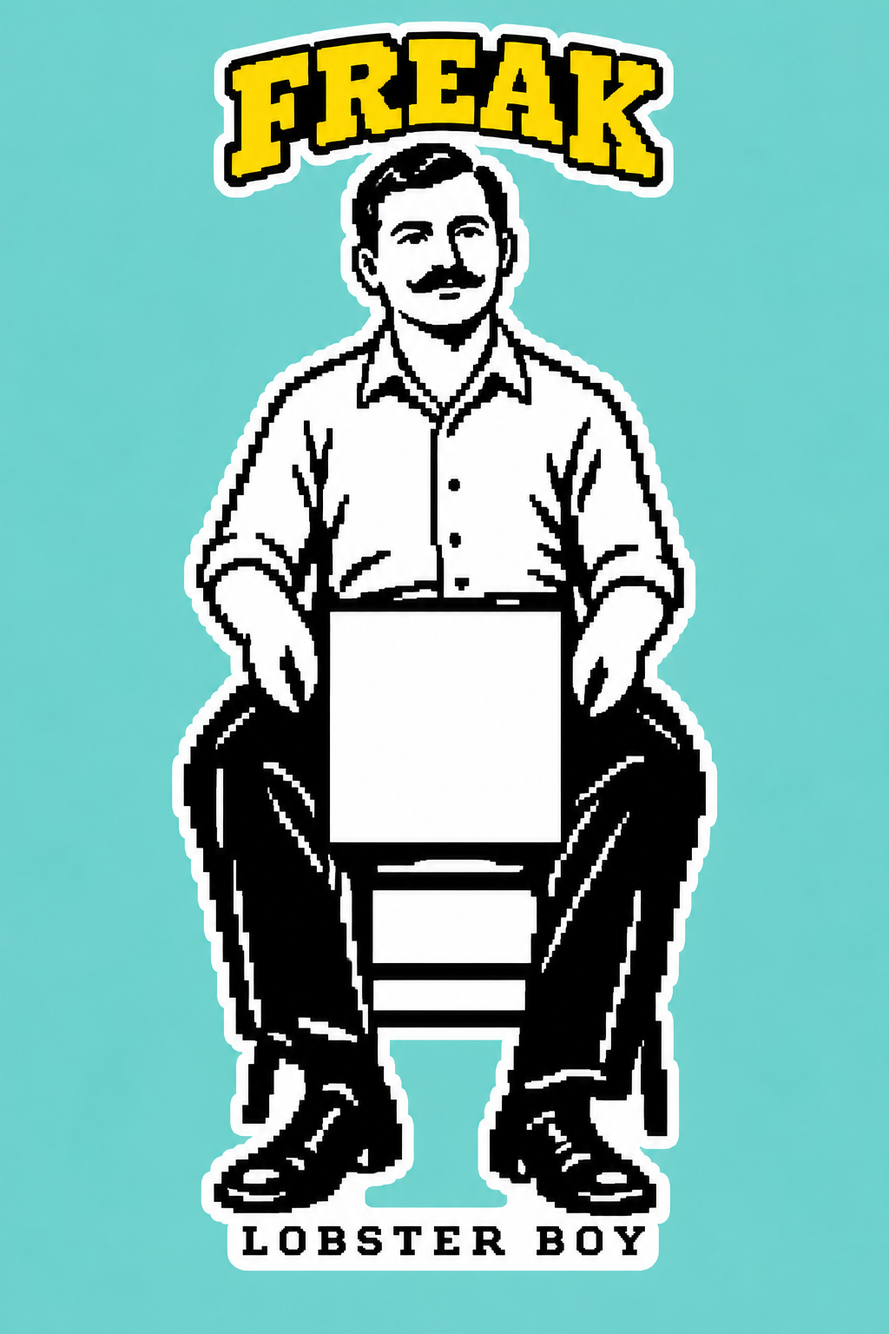
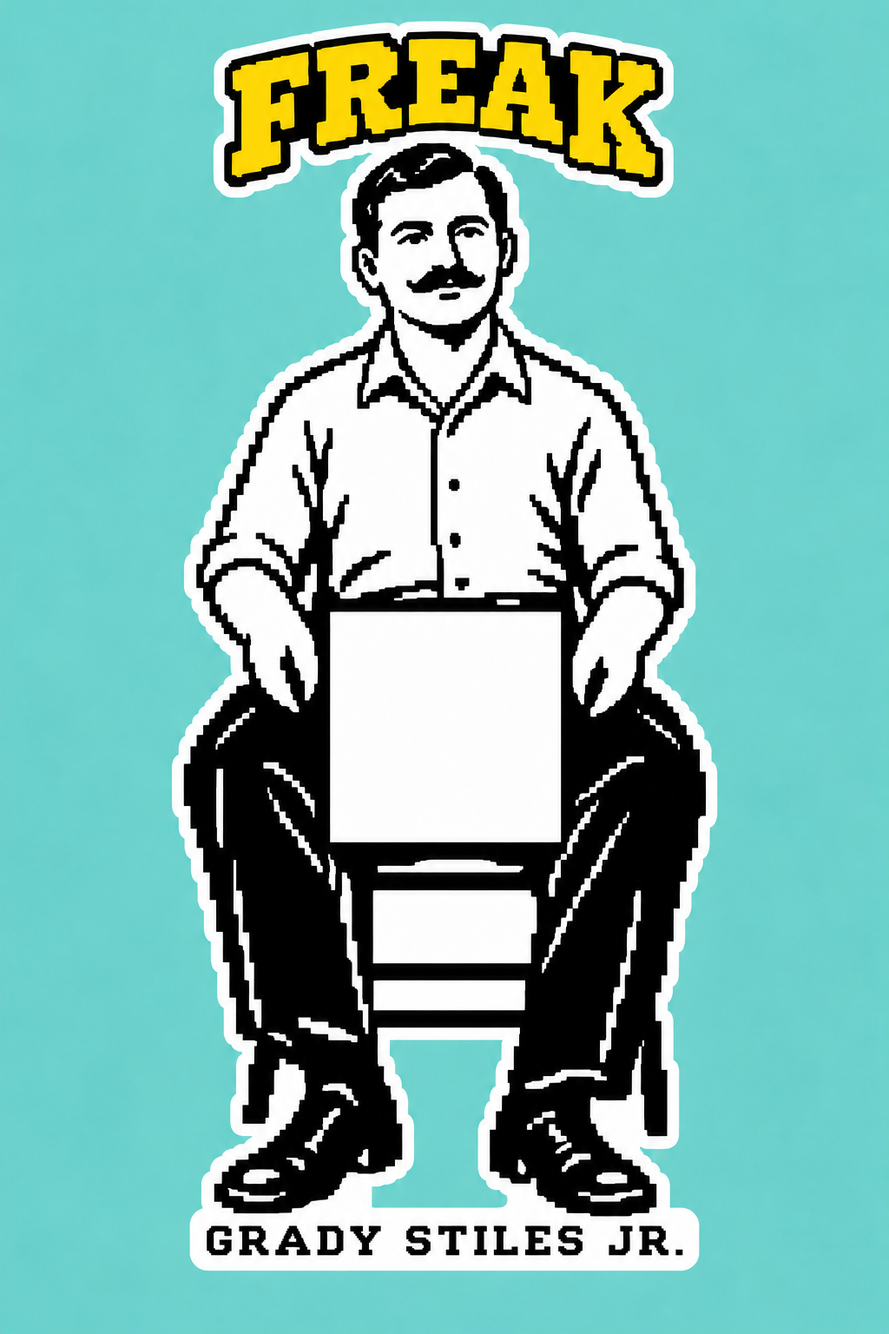
Use artist names throughout FREAK while preserving campaign and QR inventory

Changed region(s): [[0.1875, 0.875, 0.8125, 0.9688], [0.4688, 0.2812, 0.5, 0.3125]]

diff --git a/freak/freak.js b/freak/freak.js
@@ -18,7 +18,7 @@ function render(){
  document.querySelector('#campaign-chip').hidden=campaign!=='prueba';
  document.querySelectorAll('nav button').forEach(b=>b.setAttribute('aria-current',b.dataset.go===view?'page':'false'));
  let html='';
- if(view==='home')html=`<div class="wordmark" aria-label="FREAK">F<span class="r">R<svg class="ghost" viewBox="0 0 20 25" aria-hidden="true"><path d="M1 25V10a9 9 0 0 1 18 0v15l-4-3-5 3-5-3z"/><circle cx="7" cy="10" r="1.6"/><circle cx="13" cy="10" r="1.6"/></svg></span>EAK</div><div class="collection-preview">${series.map((s,i)=>`<img src="${art(i)}" alt="${esc(s.name)}" ${i?'loading="lazy"':''}>`).join('')}</div><section class="hero-copy"><h1>Busca. Encuentra.<br>Colecciona.</h1><p class="state-note">Stickers escondidos cerca de UPAEP.<br>Encuentra los 4 personajes.</p><button class="primary" data-go="scan">Escanear sticker</button><p class="state-note">¿Sin escanear? Tráelos a Better Mood UPAEP.</p></section><section class="intro"><p class="date">28 octubre · Better Mood UPAEP</p><p>DJ en vivo · Pumpkin Spice Latte + Maracuyá</p><button class="secondary" data-go="rules">Cómo participar</button><button class="secondary" id="invite">Invitar a un amigo</button></section>`;
+ if(view==='home')html=`<div class="wordmark" aria-label="FREAK">F<span class="r">R<svg class="ghost" viewBox="0 0 20 25" aria-hidden="true"><path d="M1 25V10a9 9 0 0 1 18 0v15l-4-3-5 3-5-3z"/><circle cx="7" cy="10" r="1.6"/><circle cx="13" cy="10" r="1.6"/></svg></span>EAK</div><div class="collection-preview">${series.map((s,i)=>`<img src="${art(i)}" alt="${esc(s.name)}" ${i?'loading="lazy"':''}>`).join('')}</div><section class="hero-copy"><h1>Busca. Encuentra.<br>Colecciona.</h1><p class="state-note">Stickers escondidos cerca de UPAEP.<br>Encuentra los 4 artistas.</p><button class="primary" data-go="scan">Escanear sticker</button><p class="state-note">¿Sin escanear? Tráelos a Better Mood UPAEP.</p></section><section class="intro"><p class="date">28 octubre · Better Mood UPAEP</p><p>DJ en vivo · Pumpkin Spice Latte + Maracuyá</p><button class="secondary" data-go="rules">Cómo participar</button><button class="secondary" id="invite">Invitar a un amigo</button></section>`;
  if(view==='collection')html=title('Mi colección',data?.person?esc(data.person.alias):'Guarda tus stickers con un alias.')+(data?.person?`${album()}<details><summary>Mis ${data.owned.length} stickers</summary>${data.owned.map(ticketRow).join('')}</details>${data.owned.length?'':'<p class="state-note">Tu primer sticker te espera.</p>'}<button class="primary" data-go="scan">Añadir sticker</button>`:`<button class="primary" data-go="account">Crear mi colección</button><button class="secondary" data-go="login">Ya tengo cuenta</button>`);
  if(view==='ranking')html=title('La comunidad','Sal a buscar con alguien.')+`<button class="primary" id="invite">Invitar a un amigo</button><h2 class="community-title">Quiénes coleccionan</h2>`+(data?.ranking.length?`<table class="ranking"><thead><tr><th>#</th><th>Alias</th><th>Stickers</th></tr></thead><tbody>${data.ranking.map(r=>`<tr class="${r.mine?'mine':''}"><td>${r.place}</td><td>${esc(r.alias)}${r.mine?' · tú':''}</td><td>${r.total}</td></tr>`).join('')}</tbody></table>`:'<p class="state-note">Sé el primero en guardar un sticker.</p>')+`<p class="small">Capturas digitales. Las entregas físicas se registran en cafetería.</p><button class="secondary" id="refresh">Actualizar</button>`;
  if(view==='account'){
@@ -34,11 +34,11 @@ function render(){
  html=title(state==='owned'?'¡Es tuyo!':state==='available'?'Lo encontraste.':'Este sticker');
  if(t)html+=`<article class="ticket big-ticket ${t.rare?'rare':''}"><span class="ticket-number">${esc(t.code||String(t.number).padStart(3,'0'))}</span><img src="${art(t.act)}" alt="${esc(t.name)}"><span class="ticket-status">${states[state]}</span></article>`;
  else html+=`<p class="state-note">${states[state]}</p>`;
- if(state==='owned')html+=`<p class="state-note">${new Set(data.owned.map(t=>t.act)).size} de 4 personajes</p><button class="secondary" id="invite">Invitar a un amigo</button>`;
+ if(state==='owned')html+=`<p class="state-note">${new Set(data.owned.map(t=>t.act)).size} de 4 artistas</p><button class="secondary" id="invite">Invitar a un amigo</button>`;
  if(state==='available')html+=`<button class="primary" id="claim">${data?.person?'Guardar en mi colección':'Elegir alias y guardar'}</button><p class="state-note">O guárdalo físicamente y tráelo a Better Mood UPAEP.</p>`;
  html+=`<button class="secondary" data-go="${state==='owned'?'collection':'scan'}">${state==='owned'?'Mi colección':'Buscar otro'}</button>`;
  }
- if(view==='rules')html=title('A tu manera.')+`<div class="rules"><section class="rule"><div><h3>Encuentra.</h3><p>Busca stickers cerca de UPAEP. Llévate el que encuentres.</p></div></section><section class="rule"><div><h3>Colecciona.</h3><p>Escanea el QR y elige tu alias. Completa los 4 personajes.</p></div></section><section class="rule"><div><h3>Nos vemos en Better Mood.</h3><p>Sin escanear también cuenta: tráelos a Better Mood UPAEP.</p></div></section></div><details><summary>Sobre el ranking</summary><p class="small">Cuenta capturas digitales. En empate: más ediciones raras y después quien llegó primero al total. Las entregas físicas se cuentan aparte, sin duplicar stickers.</p></details><button class="primary" data-go="scan">Buscar stickers</button>`;
+ if(view==='rules')html=title('A tu manera.')+`<div class="rules"><section class="rule"><div><h3>Encuentra.</h3><p>Busca stickers cerca de UPAEP. Llévate el que encuentres.</p></div></section><section class="rule"><div><h3>Colecciona.</h3><p>Escanea el QR y elige tu alias. Completa los 4 artistas.</p></div></section><section class="rule"><div><h3>Nos vemos en Better Mood.</h3><p>Sin escanear también cuenta: tráelos a Better Mood UPAEP.</p></div></section></div><details><summary>Sobre el ranking</summary><p class="small">Cuenta capturas digitales. En empate: más ediciones raras y después quien llegó primero al total. Las entregas físicas se cuentan aparte, sin duplicar stickers.</p></details><button class="primary" data-go="scan">Buscar stickers</button>`;
  main.innerHTML=html;bind();
 }
 function fail(e){let el=main.querySelector('.error');if(!el){el=document.createElement('p');el.className='error';el.setAttribute('role','alert');main.append(el)}el.textContent=e.message;el.scrollIntoView({block:'nearest'});}
@@ -63,8 +63,8 @@ function bind(){main.querySelectorAll('[data-go]').forEach(b=>b.onclick=()=>go(b
 }
 async function startCamera(){await startScanner(raw=>action(()=>openTicket(raw)),toast);}
 async function saveTicket(){try{selected=await api('claim',{token})}catch(e){if(e.code)await inspect();throw e}pendingClaim=false;await refresh();go('claim');if(selected.state==='owned')toast('Sticker guardado.');}
-function album(){const acts=new Set(data.owned.map(t=>t.act));return `<p class="album-count">${acts.size} de 4 personajes${acts.size===4?' · ¡Colección completa!':''}</p><div class="album">${series.map((s,i)=>`<article class="album-card ${acts.has(i)?'found':''}"><img src="${art(i)}" alt="" loading="lazy"><h2>${esc(i===0?'Chiquita':s.name)}</h2><p>${acts.has(i)?'✓ Encontrado':'Por encontrar'}</p></article>`).join('')}</div>`;}
-async function invite(){const url='https://bmoodcoffee.com/freak/';const text='¿Buscamos juntos? Encuentra los 4 personajes FREAK cerca de UPAEP. Nos vemos en Better Mood.';if(navigator.share){try{await navigator.share({title:'FREAK · Better Mood',text,url});return}catch(e){if(e.name==='AbortError')return;}}try{await navigator.clipboard.writeText(`${text} ${url}`);toast('Invitación copiada. Compártela con un amigo.');}catch{let el=document.querySelector('#share-link');if(!el){el=document.createElement('p');el.id='share-link';main.append(el);}el.innerHTML='<a href="https://bmoodcoffee.com/freak/">bmoodcoffee.com/freak/</a><br>Copia este enlace para invitar.';}}
+function album(){const acts=new Set(data.owned.map(t=>t.act));return `<p class="album-count">${acts.size} de 4 artistas${acts.size===4?' · ¡Colección completa!':''}</p><div class="album">${series.map((s,i)=>`<article class="album-card ${acts.has(i)?'found':''}"><img src="${art(i)}" alt="" loading="lazy"><h2>${esc(s.name)}</h2><p>${acts.has(i)?'✓ Encontrado':'Por encontrar'}</p></article>`).join('')}</div>`;}
+async function invite(){const url='https://bmoodcoffee.com/freak/';const text='¿Buscamos juntos? Encuentra los 4 artistas FREAK cerca de UPAEP. Nos vemos en Better Mood.';if(navigator.share){try{await navigator.share({title:'FREAK · Better Mood',text,url});return}catch(e){if(e.name==='AbortError')return;}}try{await navigator.clipboard.writeText(`${text} ${url}`);toast('Invitación copiada. Compártela con un amigo.');}catch{let el=document.querySelector('#share-link');if(!el){el=document.createElement('p');el.id='share-link';main.append(el);}el.innerHTML='<a href="https://bmoodcoffee.com/freak/">bmoodcoffee.com/freak/</a><br>Copia este enlace para invitar.';}}
 document.querySelectorAll('nav [data-go],#menu-panel [data-go]').forEach(b=>b.onclick=()=>go(b.dataset.go));
 document.querySelector('#menu').onclick=()=>{const p=document.querySelector('#menu-panel');p.hidden=!p.hidden;document.querySelector('#menu').setAttribute('aria-expanded',String(!p.hidden))};
 window.addEventListener('pagehide',stopCamera);document.addEventListener('visibilitychange',()=>{if(document.hidden)stopCamera()});

diff --git a/freak/admin/admin.js b/freak/admin/admin.js
@@ -10,7 +10,7 @@ async function refresh(){data=await api('list');if(campaign==='freak-2026')$('#c
 function allowed(){return !dirty||confirm('Tienes cambios sin guardar. ¿Descartarlos?')}
 function render(){const t=data.tickets;$('#metrics').innerHTML=[[t.length,'Inventario total'],[t.filter(x=>x.physical==='placed').length,'Colocados'],[t.filter(x=>x.opens>0).length,'Abiertos'],[t.filter(x=>x.claimed_at).length,'Digitales'],[t.filter(x=>x.received_at).length,'Físicos']].map(([n,l])=>`<div class="metric"><b>${n}</b><span>${l}</span></div>`).join('');rows();detail();receipts();}
 function rows(){const search=$('#search').value.toLocaleLowerCase(),physical=$('#physical-filter').value,activity=$('#activity-filter').value;const filtered=data.tickets.filter(t=>(`${t.short_code||''} ${String(t.number).padStart(3,'0')} ${t.name} ${t.place||''}`.toLocaleLowerCase().includes(search))&&(!physical||t.physical===physical)&&(!activity||(activity==='claimed'?t.claimed_at:activity==='opened'?t.opens>0:!t.opens)));$('#rows').innerHTML=filtered.map(t=>`<tr class="${selected===t.number?'selected':''}"><td><span class="number">${esc(t.short_code||String(t.number).padStart(3,'0'))}</span><br>${esc(t.name)}${t.rare?'<small>Edición de 10</small>':''}</td><td>${esc(t.place||'—')}<small>${labels[t.physical]}</small></td><td>${t.received_at?'Recibido':t.claimed_at?'Digital':t.opens?'Enlace abierto':'Sin aperturas'}<small>${t.opens} aperturas</small></td><td><button data-select="${t.number}" aria-label="Editar sticker ${t.number}">Editar</button></td></tr>`).join('')||'<tr><td colspan="4">No hay stickers con estos filtros.</td></tr>';$('#count').textContent=`${filtered.length} de ${data.tickets.length} stickers`;$('[id=rows]').querySelectorAll('button').forEach(b=>b.onclick=()=>{if(!allowed())return;selected=+b.dataset.select;dirty=false;setMode('place');rows();detail();if(innerWidth<901)$('#detail').scrollIntoView({behavior:'smooth'})});}
-function detail(){const t=data.tickets.find(x=>x.number===selected);if(!t){$('#detail').textContent='Escanea el QR o escribe su código.';return}dirty=false;$('#detail').innerHTML=`<img class="portrait" src="/freak/${images[t.act]}.png" alt=""><h2>${esc(t.short_code||String(t.number).padStart(3,'0'))} · ${esc(t.name)}</h2><form id="location-form"><label>Estado físico<select name="physical">${Object.entries(labels).map(([k,v])=>`<option value="${k}" ${(t.physical==='unplaced'?'placed':t.physical)===k?'selected':''}>${v}</option>`).join('')}</select></label><label>Lugar<input name="place" maxlength="120" value="${esc(t.place)}" placeholder="Ej. Better Mood UPAEP"></label><label>¿Dónde lo dejaste?<textarea name="reference" maxlength="500" placeholder="Ej. Columna junto a la entrada">${esc(t.reference)}</textarea></label><details><summary>Coordenadas</summary><div class="form-grid"><label>Latitud<input name="latitude" type="number" step="any" min="-90" max="90" value="${esc(t.latitude)}"></label><label>Longitud<input name="longitude" type="number" step="any" min="-180" max="180" value="${esc(t.longitude)}"></label></div></details><input name="accuracy" type="hidden" value="${esc(t.accuracy)}"><p id="precision" class="muted">${t.accuracy!=null?`Precisión GPS aproximada: ${Math.round(t.accuracy)} m.`:'Coordenadas manuales o GPS.'}</p><div class="actions"><button type="button" id="locate">Usar mi ubicación</button><button class="primary">Guardar y siguiente</button></div></form>${t.latitude!=null&&t.longitude!=null?`<p><a href="https://www.google.com/maps/search/?api=1&query=${t.latitude}%2C${t.longitude}" target="_blank" rel="noopener noreferrer">Ver ubicación en Maps ↗</a></p>`:''}<p class="muted"></p><details class="history"><summary>Actividad e historial</summary>${t.received_at?`<p>Recibido de ${esc(t.received_alias)} · ${date(t.received_at)}</p>`:''}<p>${t.opens} aperturas<br>Primera: ${date(t.first_open)}<br>Última: ${date(t.last_open)}<br>Reclamado: ${date(t.claimed_at)}${t.alias?`<br>Alias: ${esc(t.alias)}`:''}</p><small>Aperturas por sesión, no personas únicas.</small><h3>Historial de ubicación</h3><ul>${data.history.filter(h=>h.number===t.number).map(h=>`<li>${date(h.created_at)} · ${labels[h.snapshot.physical]}<br>${esc(h.snapshot.place)} · ${esc(h.snapshot.reference)}${h.snapshot.latitude!=null?`<br>${h.snapshot.latitude}, ${h.snapshot.longitude}`:''}</li>`).join('')||'<li>Sin movimientos todavía.</li>'}</ul></details>`;
+function detail(){const t=data.tickets.find(x=>x.number===selected);if(!t){$('#detail').textContent='Escanea el QR o escribe su código.';return}dirty=false;$('#detail').innerHTML=`<img class="portrait" src="/freak/${images[t.act]}-integrated.png" alt=""><h2>${esc(t.short_code||String(t.number).padStart(3,'0'))} · ${esc(t.name)}</h2><form id="location-form"><label>Estado físico<select name="physical">${Object.entries(labels).map(([k,v])=>`<option value="${k}" ${(t.physical==='unplaced'?'placed':t.physical)===k?'selected':''}>${v}</option>`).join('')}</select></label><label>Lugar<input name="place" maxlength="120" value="${esc(t.place)}" placeholder="Ej. Better Mood UPAEP"></label><label>¿Dónde lo dejaste?<textarea name="reference" maxlength="500" placeholder="Ej. Columna junto a la entrada">${esc(t.reference)}</textarea></label><details><summary>Coordenadas</summary><div class="form-grid"><label>Latitud<input name="latitude" type="number" step="any" min="-90" max="90" value="${esc(t.latitude)}"></label><label>Longitud<input name="longitude" type="number" step="any" min="-180" max="180" value="${esc(t.longitude)}"></label></div></details><input name="accuracy" type="hidden" value="${esc(t.accuracy)}"><p id="precision" class="muted">${t.accuracy!=null?`Precisión GPS aproximada: ${Math.round(t.accuracy)} m.`:'Coordenadas manuales o GPS.'}</p><div class="actions"><button type="button" id="locate">Usar mi ubicación</button><button class="primary">Guardar y siguiente</button></div></form>${t.latitude!=null&&t.longitude!=null?`<p><a href="https://www.google.com/maps/search/?api=1&query=${t.latitude}%2C${t.longitude}" target="_blank" rel="noopener noreferrer">Ver ubicación en Maps ↗</a></p>`:''}<p class="muted"></p><details class="history"><summary>Actividad e historial</summary>${t.received_at?`<p>Recibido de ${esc(t.received_alias)} · ${date(t.received_at)}</p>`:''}<p>${t.opens} aperturas<br>Primera: ${date(t.first_open)}<br>Última: ${date(t.last_open)}<br>Reclamado: ${date(t.claimed_at)}${t.alias?`<br>Alias: ${esc(t.alias)}`:''}</p><small>Aperturas por sesión, no personas únicas.</small><h3>Historial de ubicación</h3><ul>${data.history.filter(h=>h.number===t.number).map(h=>`<li>${date(h.created_at)} · ${labels[h.snapshot.physical]}<br>${esc(h.snapshot.place)} · ${esc(h.snapshot.reference)}${h.snapshot.latitude!=null?`<br>${h.snapshot.latitude}, ${h.snapshot.longitude}`:''}</li>`).join('')||'<li>Sin movimientos todavía.</li>'}</ul></details>`;
 const form=$('#location-form');form.oninput=()=>{dirty=true};for(const name of ['latitude','longitude'])form.elements[name].addEventListener('input',()=>{form.elements.accuracy.value='';$('#precision').textContent='Coordenadas manuales; precisión GPS no registrada.'});
 $('#locate').onclick=()=>{if(!navigator.geolocation){notice('GPS no disponible. Escribe las coordenadas.');return}const target=selected,scope=campaign;$('#locate').disabled=true;navigator.geolocation.getCurrentPosition(p=>{if(target!==selected||scope!==campaign||!form.isConnected)return;form.elements.latitude.value=p.coords.latitude.toFixed(7);form.elements.longitude.value=p.coords.longitude.toFixed(7);form.elements.accuracy.value=p.coords.accuracy;$('#precision').textContent=`Precisión GPS aproximada: ${Math.round(p.coords.accuracy)} m. Verifica el punto y añade la referencia exacta.`;dirty=true;$('#locate').disabled=false},()=>{if(target!==selected||scope!==campaign||!form.isConnected)return;$('#locate').disabled=false;notice('No se obtuvo ubicación. Permite GPS o escribe las coordenadas del punto.');},{enableHighAccuracy:true,timeout:15000,maximumAge:0});};
 form.onsubmit=e=>{e.preventDefault();act(async()=>{const b=Object.fromEntries(new FormData(form));for(const k of ['latitude','longitude','accuracy'])b[k]=b[k]===''?null:Number(b[k]);await api('save',{...b,number:t.number,version:t.version});dirty=false;selected=null;await refresh();notice(`${t.short_code} colocado. Escanea el siguiente.`);$('#identify').scrollIntoView({block:'start'})})};}

diff --git a/freak/admin/index.html b/freak/admin/index.html
@@ -1,1 +1,1 @@
-<!doctype html><html lang="es"><head><meta charset="utf-8"><meta name="viewport" content="width=device-width,initial-scale=1"><meta name="robots" content="noindex,nofollow"><title>FREAK · Administración</title><link rel="stylesheet" href="/freak/admin/admin.css"><script type="module" src="/freak/admin/admin.js"></script></head><body><header><a href="/freak/" class="logo">FREAK</a><div><strong>Administración</strong><small>Better Mood · Control de stickers</small></div><label class="campaign">Campaña<select id="campaign"><option value="freak-2026">Colección</option><option value="prueba">Interno</option></select></label><button id="logout" hidden>Cerrar sesión</button></header><main><h1>Stickers</h1><p id="notice" role="status" aria-live="polite"></p><section id="login"><h2>Acceso privado</h2><p></p><form id="login-form"><label>Clave<input name="key" type="password" required autocomplete="current-password"></label><button class="primary">Entrar</button></form></section><div id="dashboard" hidden><nav class="modes" aria-label="Acciones"><button data-mode="place" aria-pressed="true">Colocar</button><button data-mode="receive" aria-pressed="false">Recibir</button><button data-mode="inventory" aria-pressed="false">Inventario</button></nav><section id="identify"><button id="scan-qr" class="primary">Escanear QR</button><div id="scanner" hidden><video id="scan-video" playsinline muted></video><button id="stop-scan">Cerrar cámara</button><p id="scan-status" role="status"></p></div><form id="code-form"><label>Código<input name="code" maxlength="4" minlength="4" required placeholder="AB7K" autocomplete="off" autocapitalize="characters"></label><button>Buscar</button></form></section><details class="overview"><summary>Resumen y exportación</summary><div class="metrics" id="metrics"></div><div class="tools"><button id="refresh">Actualizar</button><button id="export">Descargar CSV</button><span id="updated" class="muted"></span></div></details><section id="receipts" hidden><h2>Recibir</h2><p>Usa su alias. Escanea o escribe el código.</p><form id="receipt-form"><div class="form-grid"><label>Alias<input name="alias" minlength="3" maxlength="24" required></label><label>Código del sticker<input name="code" minlength="4" maxlength="4" placeholder="AB7K" required autocomplete="off"></label></div><button class="primary">Contar sticker</button></form><details><summary>Entregas por persona</summary><div id="receipt-summary"></div></details></section><div class="workspace"><section class="inventory" hidden><div class="filters"><label>Buscar<input id="search" placeholder="Número, personaje o lugar"></label><label>Estado físico<select id="physical-filter"><option value="">Todos</option><option value="unplaced">Sin colocar</option><option value="placed">Colocado</option><option value="removed">Retirado</option><option value="missing">No encontrado</option></select></label><label>Actividad<select id="activity-filter"><option value="">Todas</option><option value="unopened">Sin aperturas</option><option value="opened">Enlace abierto</option><option value="claimed">Reclamado</option></select></label></div><div class="table-wrap"><table><thead><tr><th>Sticker</th><th>Ubicación</th><th>Actividad</th><th></th></tr></thead><tbody id="rows"></tbody></table></div><p id="count" class="muted"></p><details><summary>Identificar por enlace QR</summary><form id="lookup-form"><label>Enlace del sticker<input name="url" type="url" required placeholder="Pega el enlace leído por la cámara"></label><button>Encontrar sticker</button></form><p class="muted">Esta consulta administrativa no cuenta como apertura pública.</p></details></section><section id="detail" aria-label="Detalle del sticker"></section></div></div></main></body></html>
+<!doctype html><html lang="es"><head><meta charset="utf-8"><meta name="viewport" content="width=device-width,initial-scale=1"><meta name="robots" content="noindex,nofollow"><title>FREAK · Administración</title><link rel="stylesheet" href="/freak/admin/admin.css"><script type="module" src="/freak/admin/admin.js"></script></head><body><header><a href="/freak/" class="logo">FREAK</a><div><strong>Administración</strong><small>Better Mood · Control de stickers</small></div><label class="campaign">Campaña<select id="campaign"><option value="freak-2026">Colección</option><option value="prueba">Interno</option></select></label><button id="logout" hidden>Cerrar sesión</button></header><main><h1>Stickers</h1><p id="notice" role="status" aria-live="polite"></p><section id="login"><h2>Acceso privado</h2><p></p><form id="login-form"><label>Clave<input name="key" type="password" required autocomplete="current-password"></label><button class="primary">Entrar</button></form></section><div id="dashboard" hidden><nav class="modes" aria-label="Acciones"><button data-mode="place" aria-pressed="true">Colocar</button><button data-mode="receive" aria-pressed="false">Recibir</button><button data-mode="inventory" aria-pressed="false">Inventario</button></nav><section id="identify"><button id="scan-qr" class="primary">Escanear QR</button><div id="scanner" hidden><video id="scan-video" playsinline muted></video><button id="stop-scan">Cerrar cámara</button><p id="scan-status" role="status"></p></div><form id="code-form"><label>Código<input name="code" maxlength="4" minlength="4" required placeholder="AB7K" autocomplete="off" autocapitalize="characters"></label><button>Buscar</button></form></section><details class="overview"><summary>Resumen y exportación</summary><div class="metrics" id="metrics"></div><div class="tools"><button id="refresh">Actualizar</button><button id="export">Descargar CSV</button><span id="updated" class="muted"></span></div></details><section id="receipts" hidden><h2>Recibir</h2><p>Usa su alias. Escanea o escribe el código.</p><form id="receipt-form"><div class="form-grid"><label>Alias<input name="alias" minlength="3" maxlength="24" required></label><label>Código del sticker<input name="code" minlength="4" maxlength="4" placeholder="AB7K" required autocomplete="off"></label></div><button class="primary">Contar sticker</button></form><details><summary>Entregas por persona</summary><div id="receipt-summary"></div></details></section><div class="workspace"><section class="inventory" hidden><div class="filters"><label>Buscar<input id="search" placeholder="Número, artista o lugar"></label><label>Estado físico<select id="physical-filter"><option value="">Todos</option><option value="unplaced">Sin colocar</option><option value="placed">Colocado</option><option value="removed">Retirado</option><option value="missing">No encontrado</option></select></label><label>Actividad<select id="activity-filter"><option value="">Todas</option><option value="unopened">Sin aperturas</option><option value="opened">Enlace abierto</option><option value="claimed">Reclamado</option></select></label></div><div class="table-wrap"><table><thead><tr><th>Sticker</th><th>Ubicación</th><th>Actividad</th><th></th></tr></thead><tbody id="rows"></tbody></table></div><p id="count" class="muted"></p><details><summary>Identificar por enlace QR</summary><form id="lookup-form"><label>Enlace del sticker<input name="url" type="url" required placeholder="Pega el enlace leído por la cámara"></label><button>Encontrar sticker</button></form><p class="muted">Esta consulta administrativa no cuenta como apertura pública.</p></details></section><section id="detail" aria-label="Detalle del sticker"></section></div></div></main></body></html>

diff --git a/freak/index.html b/freak/index.html
@@ -1,1 +1,1 @@
-<!doctype html><html lang="es"><head><meta charset="utf-8"><meta name="viewport" content="width=device-width,initial-scale=1"><title>FREAK · Encuentra los 4 personajes | Better Mood</title><meta name="description" content="Encuentra y colecciona los 100 stickers FREAK. FREAK, 28 octubre 2026 en Better Mood UPAEP. DJ en vivo y Pumpkin Spice Latte + Maracuyá."><meta name="theme-color" content="#231F20"><link rel="canonical" href="https://bmoodcoffee.com/freak/"><meta property="og:title" content="FREAK · Encuentra los 4 personajes"><meta property="og:description" content="Busca stickers cerca de UPAEP. Colecciona con amigos. Nos vemos en Better Mood."><meta property="og:url" content="https://bmoodcoffee.com/freak/"><meta property="og:type" content="website"><meta property="og:image" content="https://bmoodcoffee.com/freak/annie-integrated.png"><meta name="referrer" content="no-referrer"><link rel="stylesheet" href="/freak/freak.css"><script type="module" src="/freak/freak.js"></script></head><body><a class="skip" href="#main">Saltar al contenido</a><div class="app"><header><a href="/" class="brand">Better Mood</a><span class="campaign-chip" id="campaign-chip" hidden></span><button class="menu-button" id="menu" aria-label="Abrir menú" aria-expanded="false"><span></span><span></span></button></header><div id="menu-panel" hidden><a href="/">Volver a Better Mood ↗</a><button data-go="rules">Cómo se juega</button><button data-go="account">Mi acceso</button></div><main id="main" tabindex="-1"></main><nav aria-label="Navegación FREAK"><button data-go="home" aria-label="Inicio"><svg viewBox="0 0 24 24"><path d="m3 11 9-8 9 8v10h-6v-7H9v7H3z"/></svg><span>Inicio</span></button><button data-go="collection"><svg viewBox="0 0 24 24"><path d="M4 4h16v5a3 3 0 0 0 0 6v5H4v-5a3 3 0 0 0 0-6zM12 4v3m0 3v4m0 3v3"/></svg><span>Colección</span></button><button data-go="scan"><svg viewBox="0 0 24 24"><path d="M8 3H3v5m13-5h5v5M3 16v5h5m8 0h5v-5M7 7h3v3H7zm7 0h3v3h-3zM7 14h3v3H7zm7 0h3v3h-3z"/></svg><span>Escanear</span></button><button data-go="ranking"><svg viewBox="0 0 24 24"><path d="M4 21V11h3v10m4 0V4h3v17m4 0V8h3v13"/></svg><span>Comunidad</span></button></nav></div><div id="toast" role="status" aria-live="polite"></div></body></html>
+<!doctype html><html lang="es"><head><meta charset="utf-8"><meta name="viewport" content="width=device-width,initial-scale=1"><title>FREAK · Encuentra los 4 artistas | Better Mood</title><meta name="description" content="Encuentra y colecciona los 100 stickers FREAK. FREAK, 28 octubre 2026 en Better Mood UPAEP. DJ en vivo y Pumpkin Spice Latte + Maracuyá."><meta name="theme-color" content="#231F20"><link rel="canonical" href="https://bmoodcoffee.com/freak/"><meta property="og:title" content="FREAK · Encuentra los 4 artistas"><meta property="og:description" content="Busca stickers cerca de UPAEP. Colecciona con amigos. Nos vemos en Better Mood."><meta property="og:url" content="https://bmoodcoffee.com/freak/"><meta property="og:type" content="website"><meta property="og:image" content="https://bmoodcoffee.com/freak/annie-integrated.png"><meta name="referrer" content="no-referrer"><link rel="stylesheet" href="/freak/freak.css"><script type="module" src="/freak/freak.js"></script></head><body><a class="skip" href="#main">Saltar al contenido</a><div class="app"><header><a href="/" class="brand">Better Mood</a><span class="campaign-chip" id="campaign-chip" hidden></span><button class="menu-button" id="menu" aria-label="Abrir menú" aria-expanded="false"><span></span><span></span></button></header><div id="menu-panel" hidden><a href="/">Volver a Better Mood ↗</a><button data-go="rules">Cómo se juega</button><button data-go="account">Mi acceso</button></div><main id="main" tabindex="-1"></main><nav aria-label="Navegación FREAK"><button data-go="home" aria-label="Inicio"><svg viewBox="0 0 24 24"><path d="m3 11 9-8 9 8v10h-6v-7H9v7H3z"/></svg><span>Inicio</span></button><button data-go="collection"><svg viewBox="0 0 24 24"><path d="M4 4h16v5a3 3 0 0 0 0 6v5H4v-5a3 3 0 0 0 0-6zM12 4v3m0 3v4m0 3v3"/></svg><span>Colección</span></button><button data-go="scan"><svg viewBox="0 0 24 24"><path d="M8 3H3v5m13-5h5v5M3 16v5h5m8 0h5v-5M7 7h3v3H7zm7 0h3v3h-3zM7 14h3v3H7zm7 0h3v3h-3z"/></svg><span>Escanear</span></button><button data-go="ranking"><svg viewBox="0 0 24 24"><path d="M4 21V11h3v10m4 0V4h3v17m4 0V8h3v13"/></svg><span>Comunidad</span></button></nav></div><div id="toast" role="status" aria-live="polite"></div></body></html>

diff --git a/docs/FREAK.md b/docs/FREAK.md
@@ -86,3 +86,9 @@ Objetivo: participación de estudiantes y vecinos de UPAEP con regreso a Better 
 Marketing operativo: invitar a buscar con un amigo, reconocer la colección en cafetería y preguntar qué personaje falta. Antes de difundir una pista, colocar y registrar ese sticker; compartir zona general, nunca coordenadas privadas ni QR reclamables. Usar fotos de colecciones solo con permiso. Medir personas con capturas digitales y personas con entregas físicas por separado; una entrega demuestra visita, no compra. No sumar ambas como personas únicas. Preguntar en cafetería si vinieron por FREAK antes de atribuir ventas. No hay premios, descuentos ni resultados comerciales prometidos. Referencia conceptual: https://www.geocaching.com/blog/2024/03/tips-for-turning-friends-into-geofriends/ (buscar acompañado y combinar con actividad social; no evidencia de resultados propios).
 
 Verificación: build completo; 11 pruebas de integración; 2 de cancelación/permiso de cámara; 2 de compartir sin exponer QR. Navegador móvil: QR → alias → guardar → personaje 1/4 → recarga conserva propiedad → Comunidad. No se generan capturas ficticias en producción. Cámara/GPS en hardware físico no pueden certificarse desde la emulación de navegador.
+
+## Nombres de artistas · 15 octubre 2026
+
+Por instrucción expresa, se conserva FREAK. Se retiran del texto visible y de los rótulos de impresión los apodos Chiquita/Lobster Boy y se usan Espiridiona Cenda, Annie Jones, Grady Stiles Jr. y Schlitze Surtees. Se habla de artistas, no de personajes o fenómenos. Schlitze Surtees es el nombre legal documentado en las fuentes consultadas; no se afirma que Simon Metz sea su nombre de nacimiento, que es incierto. Referencias: Smithsonian, Annie Jones (https://www.si.edu/object/annie-jones:npg_NPG.81.M1710); entrevista de Ron Nagle, Archives of American Art, para Grady Stiles Jr. (https://www.aaa.si.edu/collections/interviews/oral-history-interview-ron-nagle-13019); Hojas Universitarias, Espiridiona Cenda (https://revistas.ucentral.edu.co/index.php/hojasUniv/article/download/801/737/2949); síntesis con incertidumbre de identidad de Schlitzie (https://en.wikipedia.org/wiki/Schlitzie).
+
+Tres maestros de imagen corregidos solo en sus rótulos; Annie Jones no requiere cambio. PDF privado de 25 páginas y vistas públicas regenerados conservando los 100 tokens/códigos originales. QR 100/100 decodificados a 300 dpi y comparados con sus URL originales. Copia anterior archivada en carpeta privada archivo-antes-nombres. El PDF actualizado sustituye al anterior para impresión: no es una tirada adicional. Sin migración, cambio de propiedad ni modificación de registros. Validación de integración y build completo.

diff --git a/docs/COFFEE-LAB.md b/docs/COFFEE-LAB.md
@@ -139,3 +139,5 @@ FREAK: lanzamiento de colección simplificada, código visible corto, recepción
 Simplificación móvil FREAK: cambios exclusivamente en /freak, allowlist y documentación. Se conserva build completo y despliegue Git; no se modifica Coffee Lab ni la portada autorizada.
 
 Cierre comunitario FREAK: álbum de cuatro personajes, invitación y registro abreviado. Solo fuentes FREAK y pruebas/documentación; mismo build integral y Git CD. Portada y Coffee Lab siguen fuera del alcance de edición.
+
+Corrección de nombres de artistas FREAK: catálogo compartido, copias públicas y arte impreso actualizados; conserva nombre FREAK y QR existentes. Sin cambios de landing, menú o Coffee Lab.
